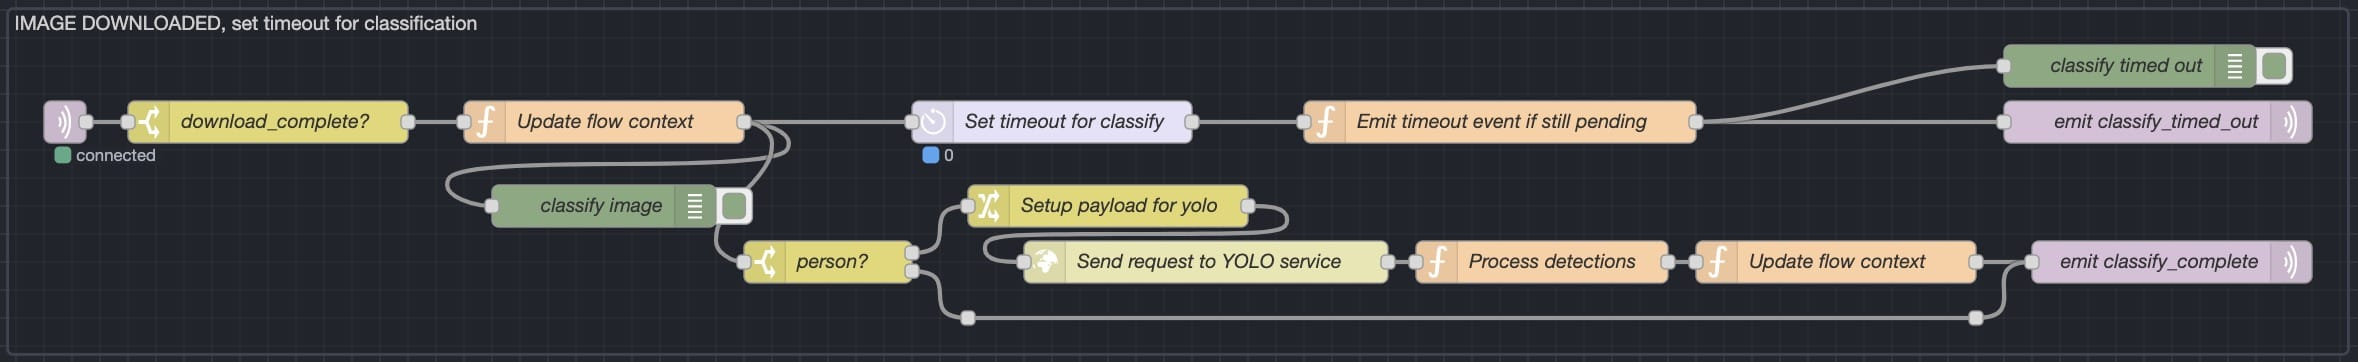
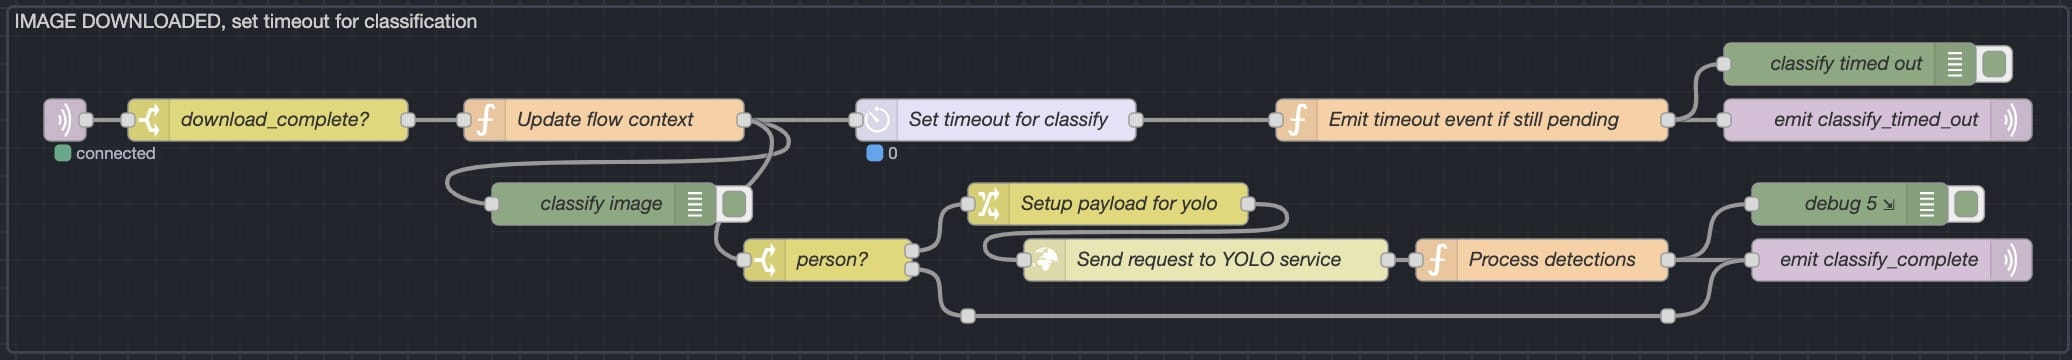
fix: update images to add missing classify_timed_out logic and simplify classify function nodes

Changed region(s): [[0.0, 0.0, 1.0, 0.9778], [0.4015, 0.8556, 0.8649, 0.9167]]

diff --git a/hugo/content/projects/event-driven-camera-notifications/index.md b/hugo/content/projects/event-driven-camera-notifications/index.md
@@ -150,3 +150,6 @@ This system ensures that camera-triggered events are processed quickly and accur
   - Moved firing event on `camera/[camera_name]/person` to the end of the flow so YOLO verification will prevent superfluous events to be fired when YOLO says a person is not in the image
   - Only run YOLO verification on person events to reduce resource usage (since this is currently run on a non-accelerated CPU)
   - Updated screenshots to reflect changes in flow mentioned above
+- **2025.03.28**:
+  - Fixed missing classify_timed_out in final logic before sending notification
+  - Simplified classify flow to use a single function node
